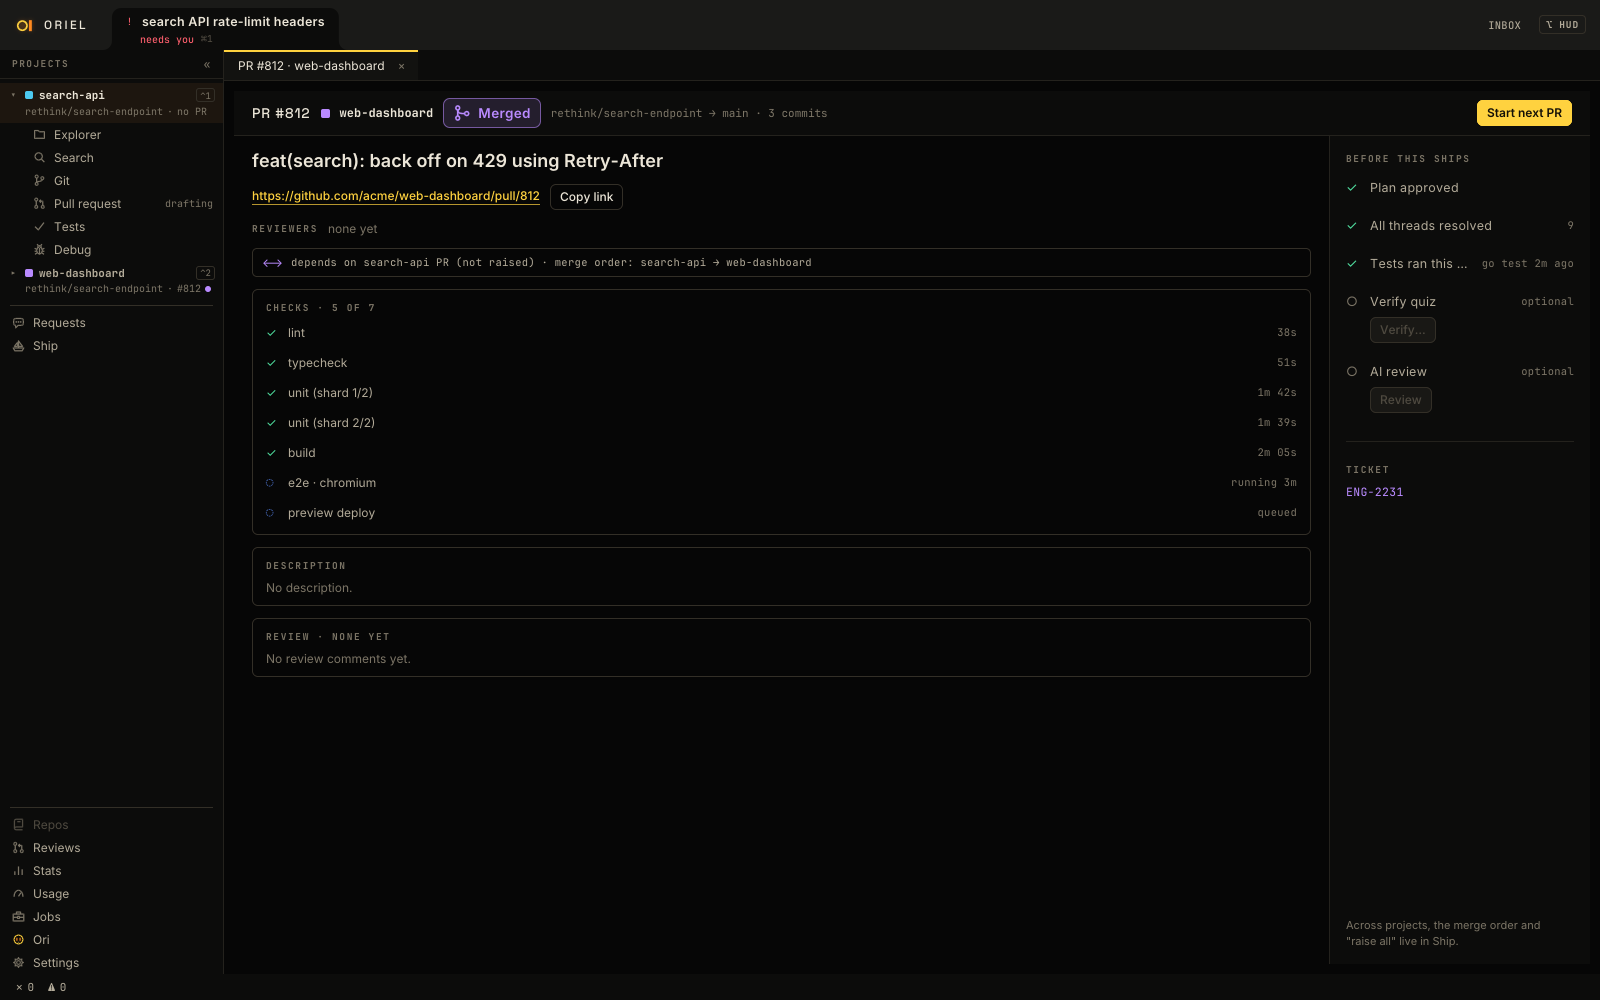
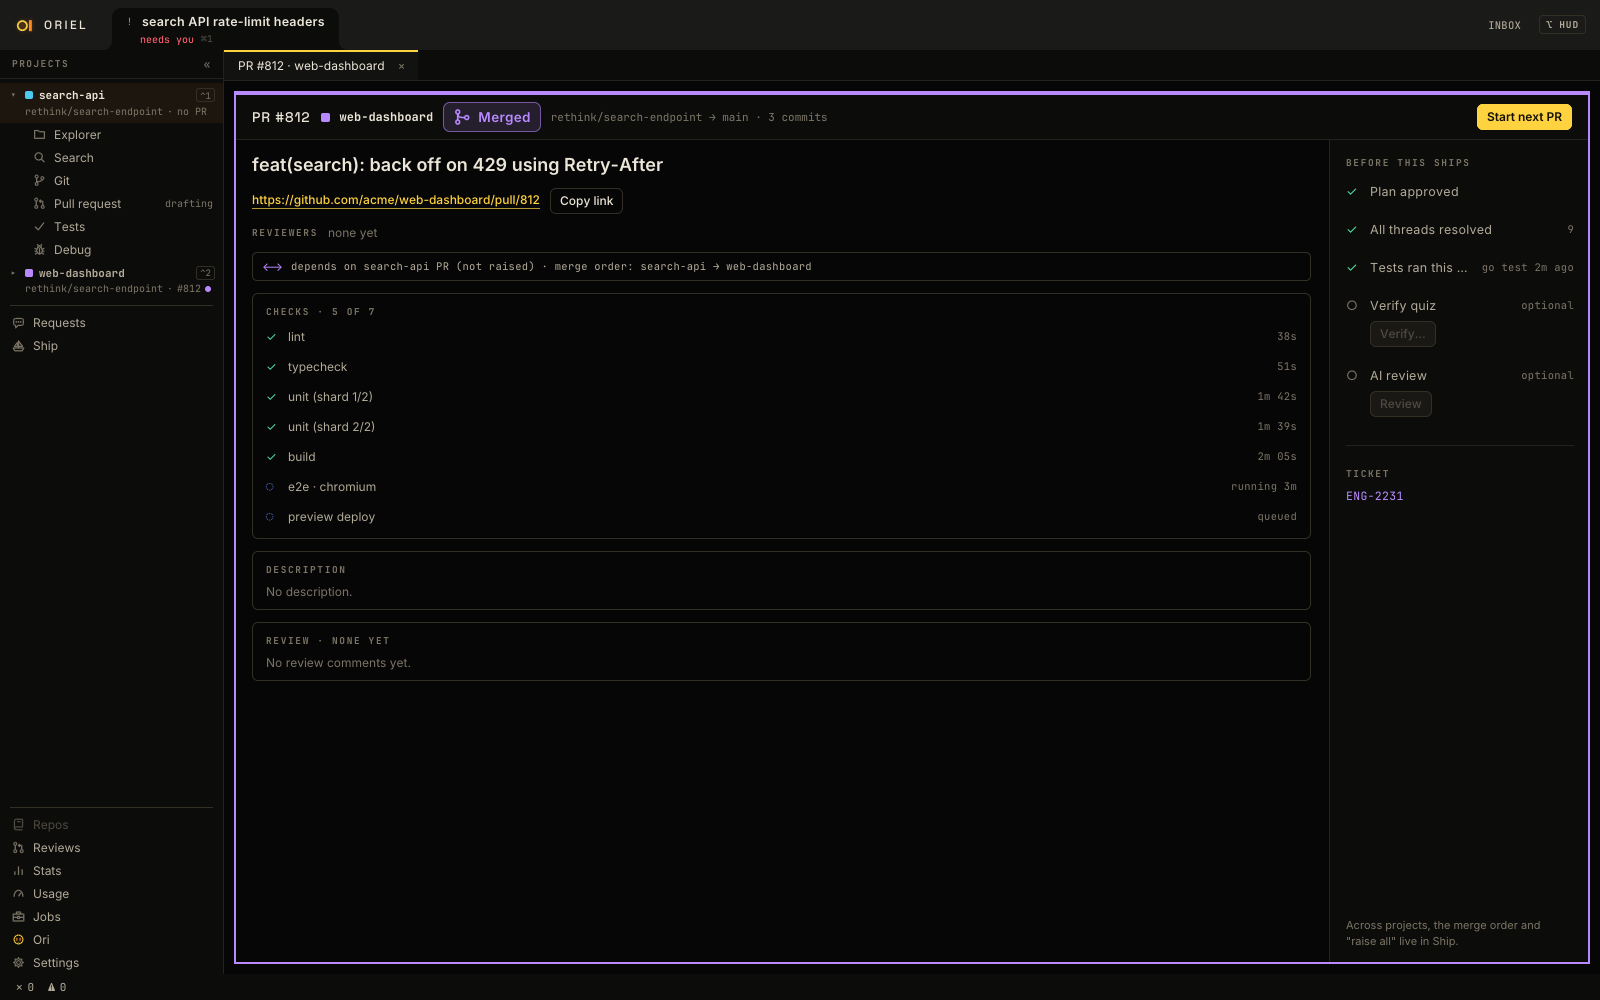
feat(ship): a merged, closed, approved or changes-requested PR's whole view is framed in its colour

diff --git a/app/review/prreviewpage.go b/app/review/prreviewpage.go
@@ -37,45 +37,59 @@ func (x *PRReview) page(c *ui.Ctx, se core.SessionState) {
 	if wake := x.saveSummary(se, f, c.Now()); !wake.IsZero() {
 		c.WakeAt(wake)
 	}
-	x.pageHead(c, se, src, full)
-	c.Box("rule", ui.Style{W: ui.Flex(1), H: ui.Px(1), Fill: th.C(theme.Line)}, nil)
-	x.pageBanner(c, se, f, full, p, done)
-	c.Row("body", ui.Style{W: ui.Flex(1), H: ui.Flex(1)}, func(c *ui.Ctx) {
-		width := float32(640)
-		if r, ok := c.Rect(c.Next("main")); ok {
-			width = max(r.Dx()-36, 240)
-		}
-		c.Column("main", ui.Style{W: ui.Flex(1), H: ui.Flex(1), ScrollY: true, Pad: ui.Insets{L: 18, R: 18, T: 14, B: 18}, Gap: 14}, func(c *ui.Ctx) {
-			if done && full.Request.Author != "" {
-				c.Text("who", fmt.Sprintf("%s wants to merge %s → %s · %s  +%d −%d", full.Request.Author, cmp.Or(full.Head, "?"), cmp.Or(full.Base, "?"),
-					kit.Counted(len(full.Files), "file"), full.Request.Adds, full.Request.Dels), kit.MonoFont(11, th.C(theme.FgMuted)))
+	kit.PRFrame(c, "frame", reviewedStatus(full), func(c *ui.Ctx) {
+		x.pageHead(c, se, src, full)
+		c.Box("rule", ui.Style{W: ui.Flex(1), H: ui.Px(1), Fill: th.C(theme.Line)}, nil)
+		x.pageBanner(c, se, f, full, p, done)
+		c.Row("body", ui.Style{W: ui.Flex(1), H: ui.Flex(1)}, func(c *ui.Ctx) {
+			width := float32(640)
+			if r, ok := c.Rect(c.Next("main")); ok {
+				width = max(r.Dx()-36, 240)
 			}
-			x.progress(c, se)
-			x.review(c, se, src, f, width, done && (full.State == "merged" || full.State == "closed"))
-			x.sent(c, se, width)
-			switch {
-			case !done:
-				widget.Busy(c, "asking", widget.LoadState{Phase: widget.Pending, Since: d.since}, widget.BusyOpts{Label: "Asking " + src.Label() + " for the pull request",
-					Size: 11, Help: prReviewHelp})
-			case failed != "":
-				widget.Wrap(c, "err", failed, width, kit.MonoFont(11, th.C(theme.Error)))
-			default:
-				x.overview(c, full, width)
-			}
-		})
-		c.Box("divider", ui.Style{W: ui.Px(1), H: ui.Flex(1), Fill: th.C(theme.Line)}, nil)
-		c.Column("side", ui.Style{W: ui.Px(260), H: ui.Flex(1), Fill: th.C(kit.TShipSide), Pad: ui.PadXY(16, 16), Gap: 10, ScrollY: true}, func(c *ui.Ctx) {
-			var fields [][2]string
-			if p.Commit != "" {
-				fields = append(fields, [2]string{"checkout", kit.ShortSHA(p.Commit)})
-			}
-			prStatusBoxes(c, prStatus{full: full, done: done, read: read, host: src.Label(), fields: fields})
+			c.Column("main", ui.Style{W: ui.Flex(1), H: ui.Flex(1), ScrollY: true, Pad: ui.Insets{L: 18, R: 18, T: 14, B: 18}, Gap: 14}, func(c *ui.Ctx) {
+				if done && full.Request.Author != "" {
+					c.Text("who", fmt.Sprintf("%s wants to merge %s → %s · %s  +%d −%d", full.Request.Author, cmp.Or(full.Head, "?"), cmp.Or(full.Base, "?"),
+						kit.Counted(len(full.Files), "file"), full.Request.Adds, full.Request.Dels), kit.MonoFont(11, th.C(theme.FgMuted)))
+				}
+				x.progress(c, se)
+				x.review(c, se, src, f, width, done && (full.State == "merged" || full.State == "closed"))
+				x.sent(c, se, width)
+				switch {
+				case !done:
+					widget.Busy(c, "asking", widget.LoadState{Phase: widget.Pending, Since: d.since}, widget.BusyOpts{Label: "Asking " + src.Label() + " for the pull request",
+						Size: 11, Help: prReviewHelp})
+				case failed != "":
+					widget.Wrap(c, "err", failed, width, kit.MonoFont(11, th.C(theme.Error)))
+				default:
+					x.overview(c, full, width)
+				}
+			})
+			c.Box("divider", ui.Style{W: ui.Px(1), H: ui.Flex(1), Fill: th.C(theme.Line)}, nil)
+			c.Column("side", ui.Style{W: ui.Px(260), H: ui.Flex(1), Fill: th.C(kit.TShipSide), Pad: ui.PadXY(16, 16), Gap: 10, ScrollY: true}, func(c *ui.Ctx) {
+				var fields [][2]string
+				if p.Commit != "" {
+					fields = append(fields, [2]string{"checkout", kit.ShortSHA(p.Commit)})
+				}
+				prStatusBoxes(c, prStatus{full: full, done: done, read: read, host: src.Label(), fields: fields})
+			})
 		})
 	})
 	reviewKeys(c)
 	if f.preview != "" {
 		x.previewDialog(c, se, src, f)
 	}
+}
+
+// reviewedStatus is where the reviewed PR stands, from its state and its reviewers'; none while its host hasn't said.
+func reviewedStatus(full registry.ReviewDetail) kit.PRStatus {
+	if full.State == "" {
+		return kit.PRStatus{}
+	}
+	var reviews []string
+	for _, r := range full.Reviewers {
+		reviews = append(reviews, r.State)
+	}
+	return kit.PRStatusOf(full.State, false, full.Request.Draft, reviews)
 }
 
 // pageHead is the tab's top bar: the PR's ref and title, and its open and fetch buttons.
@@ -85,11 +99,7 @@ func (x *PRReview) pageHead(c *ui.Ctx, se core.SessionState, src registry.HostSi
 		c.Text("h", "REVIEW", ui.TextStyle{Font: typeset.FontSpec{Family: typeset.Display, Size: 14, Weight: typeset.SemiBold, Tracking: .06}, Color: th.C(theme.Fg)})
 		c.Text("ref", kit.Label(se), kit.Mono(12, typeset.SemiBold, th.C(theme.Fg)))
 		if full.State != "" { // until its host says, it's no state at all
-			var reviews []string
-			for _, r := range full.Reviewers {
-				reviews = append(reviews, r.State)
-			}
-			kit.PRBadge(c, x.h, "state", kit.PRStatusOf(full.State, false, full.Request.Draft, reviews), prReviewHelp)
+			kit.PRBadge(c, x.h, "state", reviewedStatus(full), prReviewHelp)
 		}
 		c.Row("title", ui.Style{W: ui.Flex(1), Clip: true}, func(c *ui.Ctx) {
 			c.Text("t", full.Request.Title, kit.UIFont(13, th.C(theme.FgMuted)))

diff --git a/app/ship/prbadge_test.go b/app/ship/prbadge_test.go
@@ -14,15 +14,22 @@ func TestARaisedPRsBadgeSaysWhereItStands(t *testing.T) {
 	x := shipOf(s)
 	s.Run("ship.pr.open", registry.Args{"project": "search-api"})
 	s.Until("the PR open", func() bool { return s.Find("Pull request: Open") != nil })
+	if s.Find("Pull request open") != nil {
+		t.Error("an open PR's view is framed")
+	}
 
 	hub.AddReview("acme/search-api", pr.Number, gh.Review{User: "priya-k", State: gh.ReviewApproved})
 	s.Run("github.sync", registry.Args{"id": string(se.ID)})
-	s.Until("approved", func() bool { return s.Find("Pull request: Approved") != nil })
+	s.Until("approved, the view framed so", func() bool {
+		return s.Find("Pull request: Approved") != nil && s.Find("Pull request approved") != nil
+	})
 
 	hub.Merge("acme/search-api", pr.Number)
 	s.Run("ship.refresh", nil)
 	shipSettle(s, t, "the PR merged", func() bool { sh, _ := x.ShipOf(se.ID, "search-api"); return sh.PR != nil && sh.PR.Merged })
-	s.Until("merged, over the approval", func() bool { return s.Find("Pull request: Merged") != nil })
+	s.Until("merged, over the approval, the view framed so", func() bool {
+		return s.Find("Pull request: Merged") != nil && s.Find("Pull request merged") != nil
+	})
 	if s.Find("Pull request: Approved") != nil {
 		t.Error("the approval still shows over the merge")
 	}

diff --git a/app/ship/shipprview.go b/app/ship/shipprview.go
@@ -126,6 +126,12 @@ func (x *Ship) nextButton(c *ui.Ctx, se core.SessionState, s shipRead, primary b
 // prBadge is where a raised PR stands, at a glance: merged or closed over what its reviewers said, then changes
 // requested, approved, draft or open.
 func (x *Ship) prBadge(c *ui.Ctx, se core.SessionState, s shipRead) {
+	kit.PRBadge(c, x.h, "state", x.prStatus(se, s), "git/ship#pr")
+}
+
+// prStatus is where a raised PR stands, from its state and its reviewers' latest verdicts: this code host's, as its
+// threads were mirrored, and those a plugin keeps (GitHub's).
+func (x *Ship) prStatus(se core.SessionState, s shipRead) kit.PRStatus {
 	x.mu.Lock()
 	var reviews []string
 	for _, v := range x.reviewed[s.PR.URL] {
@@ -133,7 +139,7 @@ func (x *Ship) prBadge(c *ui.Ctx, se core.SessionState, s shipRead) {
 	}
 	x.mu.Unlock()
 	reviews = append(reviews, kit.PRReviewsOf(x.h, se.ID, s.PR.URL)...)
-	kit.PRBadge(c, x.h, "state", kit.PRStatusOf(s.PR.State, s.PR.Merged, s.PR.Draft, reviews), "git/ship#pr")
+	return kit.PRStatusOf(s.PR.State, s.PR.Merged, s.PR.Draft, reviews)
 }
 
 // prStateWord is where a PR stands, in a word: open, draft, merged or closed.

diff --git a/app/kit/prstatus.go b/app/kit/prstatus.go
@@ -74,3 +74,28 @@ func PRReviewsOf(r registry.Registry, id core.SessionID, url string) []string {
 	}
 	return nil
 }
+
+// Framed says the status is one worth framing the whole PR view in: something happened to it (merged, closed) or a
+// reviewer has decided (approved, changes requested). An open PR, or a draft, isn't framed.
+func (s PRStatus) Framed() bool {
+	switch s.Word {
+	case "Merged", "Closed", "Approved", "Changes requested":
+		return true
+	}
+	return false
+}
+
+// PRFrame lays fn out filling its parent, framed in the status's tone, with a band of it across the top, when the
+// status is Framed: the whole view says where the PR stands, not only its badge.
+func PRFrame(c *ui.Ctx, key any, s PRStatus, fn func(c *ui.Ctx)) {
+	if !s.Framed() {
+		c.Column(key, ui.Style{W: ui.Flex(1), H: ui.Flex(1)}, fn)
+		return
+	}
+	tone := c.Theme().C(s.Tone)
+	c.Column(key, ui.Style{W: ui.Flex(1), H: ui.Flex(1), Stroke: tone, Border: 2, Clip: true, Role: ui.RoleGroup, Label: "Pull request " + strings.ToLower(s.Word)},
+		func(c *ui.Ctx) {
+			c.Box("band", ui.Style{W: ui.Flex(1), H: ui.Px(4), Fill: tone}, nil)
+			fn(c)
+		})
+}

diff --git a/app/review/prbadge_test.go b/app/review/prbadge_test.go
@@ -13,14 +13,21 @@ func TestAReviewedPRsBadgeSaysWhereItStands(t *testing.T) {
 	s, _, hub, pr, id, _ := prReviewScene(t, false)
 	s.Run("ship.pr.open", nil)
 	s.Until("the PR open", func() bool { return s.Find("Pull request: Open") != nil })
+	if s.Find("Pull request open") != nil {
+		t.Error("an open PR's view is framed")
+	}
 
 	hub.AddReview("acme/api", pr.Number, gh.Review{User: "priya-k", State: gh.ReviewApproved})
 	s.Run("github.sync", registry.Args{"id": string(id)})
 	s.Run("ship.pr.open", nil)
-	s.Until("approved", func() bool { return s.Find("Pull request: Approved") != nil })
+	s.Until("approved, the view framed so", func() bool {
+		return s.Find("Pull request: Approved") != nil && s.Find("Pull request approved") != nil
+	})
 
 	hub.Merge("acme/api", pr.Number)
 	s.Run("github.sync", registry.Args{"id": string(id)})
 	s.Run("ship.pr.open", nil)
-	s.Until("merged, over the approval", func() bool { return s.Find("Pull request: Merged") != nil })
+	s.Until("merged, over the approval, the view framed so", func() bool {
+		return s.Find("Pull request: Merged") != nil && s.Find("Pull request merged") != nil
+	})
 }

diff --git a/app/ship/prtab.go b/app/ship/prtab.go
@@ -69,11 +69,20 @@ func (x *Ship) editPR(id core.SessionID, project string, edit bool) {
 	f.editing, f.edited, f.save, f.veto, f.tab = edit, false, autosave{}, "", 0
 }
 
-// prTabBody is the tab once the project's been read.
+// prTabBody is the tab once the project's been read; a raised PR's overview is framed in where it stands.
 func (x *Ship) prTabBody(c *ui.Ctx, se core.SessionState, p string) {
-	th := c.Theme()
 	s, _ := x.ship(se.ID, p)
 	f := x.prForm(se.ID, s)
+	var status kit.PRStatus
+	if s.PR != nil && !f.editing {
+		status = x.prStatus(se, s)
+	}
+	kit.PRFrame(c, "frame", status, func(c *ui.Ctx) { x.prTabContent(c, se, s, f) })
+}
+
+// prTabContent is the tab's header and body: a raised PR's overview, or the form.
+func (x *Ship) prTabContent(c *ui.Ctx, se core.SessionState, s shipRead, f *prForm) {
+	th := c.Theme()
 	overview := s.PR != nil && !f.editing
 	if overview {
 		x.overviewHeader(c, se, s)

diff --git a/app/kit/prstatus_test.go b/app/kit/prstatus_test.go
@@ -28,3 +28,12 @@ func TestPRStatusOf(t *testing.T) {
 		}
 	}
 }
+
+// Only what happened to a PR, or a reviewer's decision, frames its view: not an open PR, nor a draft.
+func TestPRStatusFramed(t *testing.T) {
+	for word, want := range map[string]bool{"Merged": true, "Closed": true, "Approved": true, "Changes requested": true, "Open": false, "Draft": false, "": false} {
+		if got := (PRStatus{Word: word}).Framed(); got != want {
+			t.Errorf("%q framed %v, want %v", word, got, want)
+		}
+	}
+}
